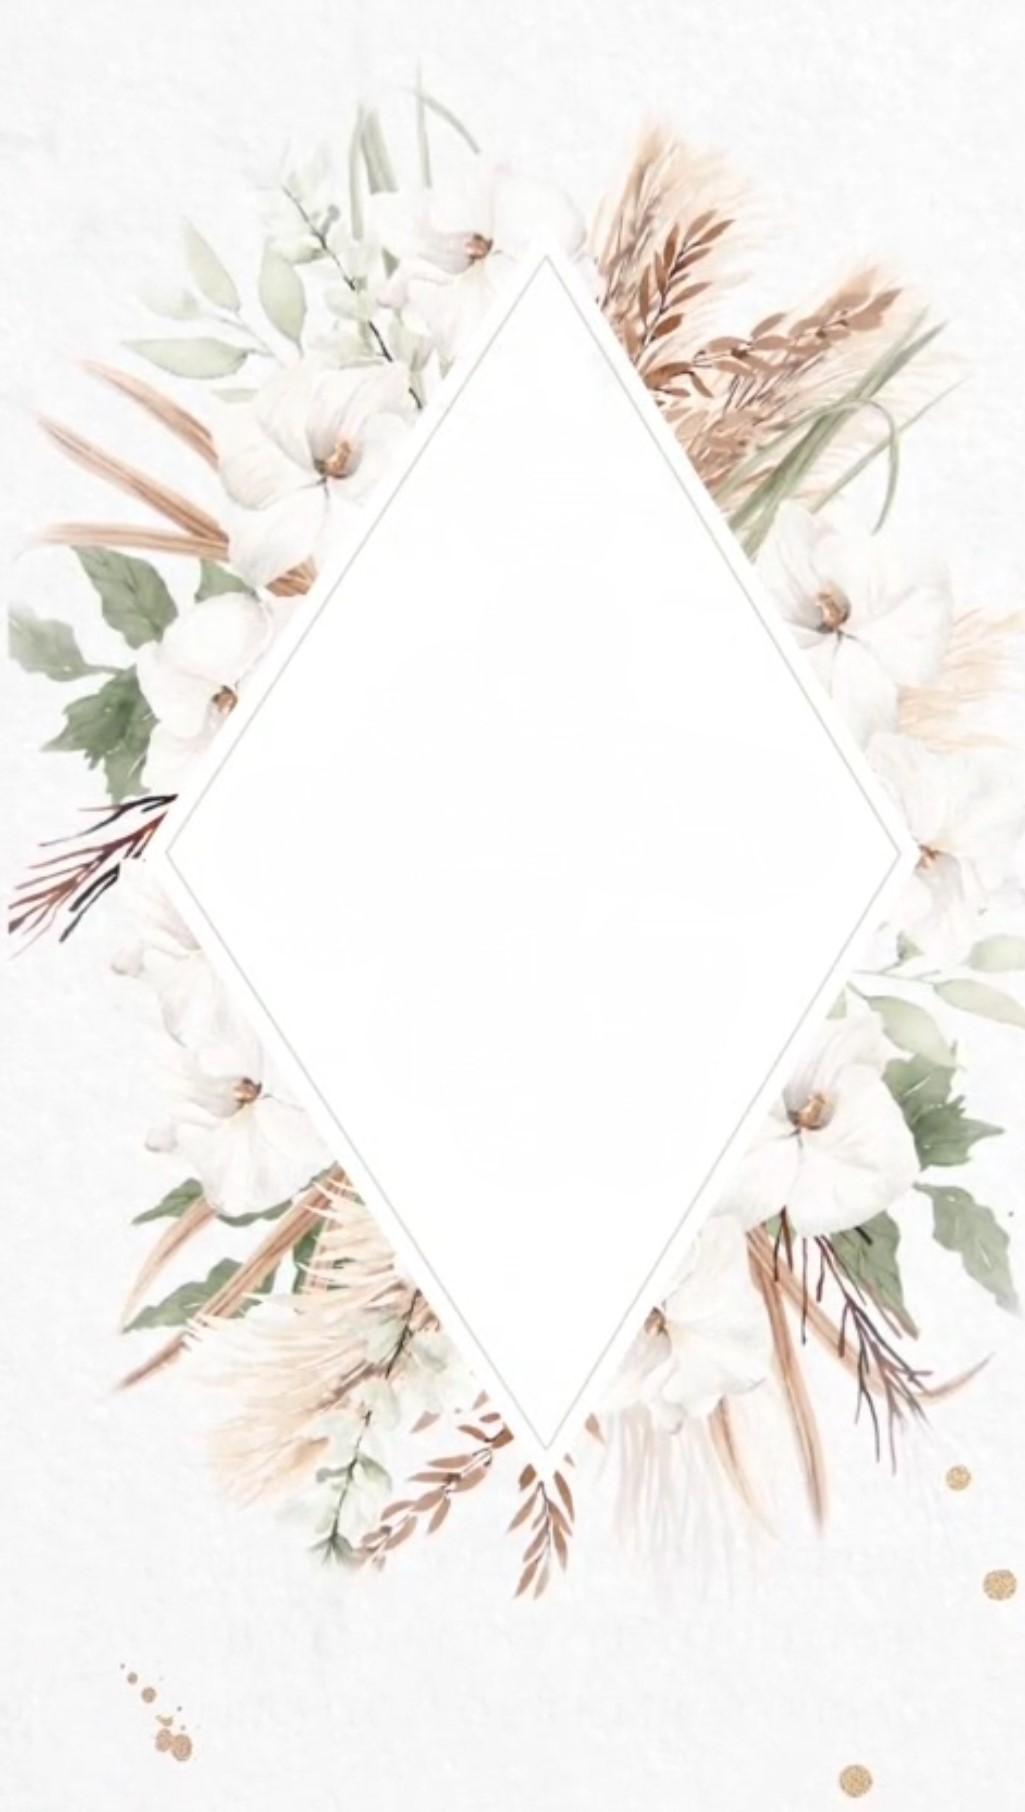
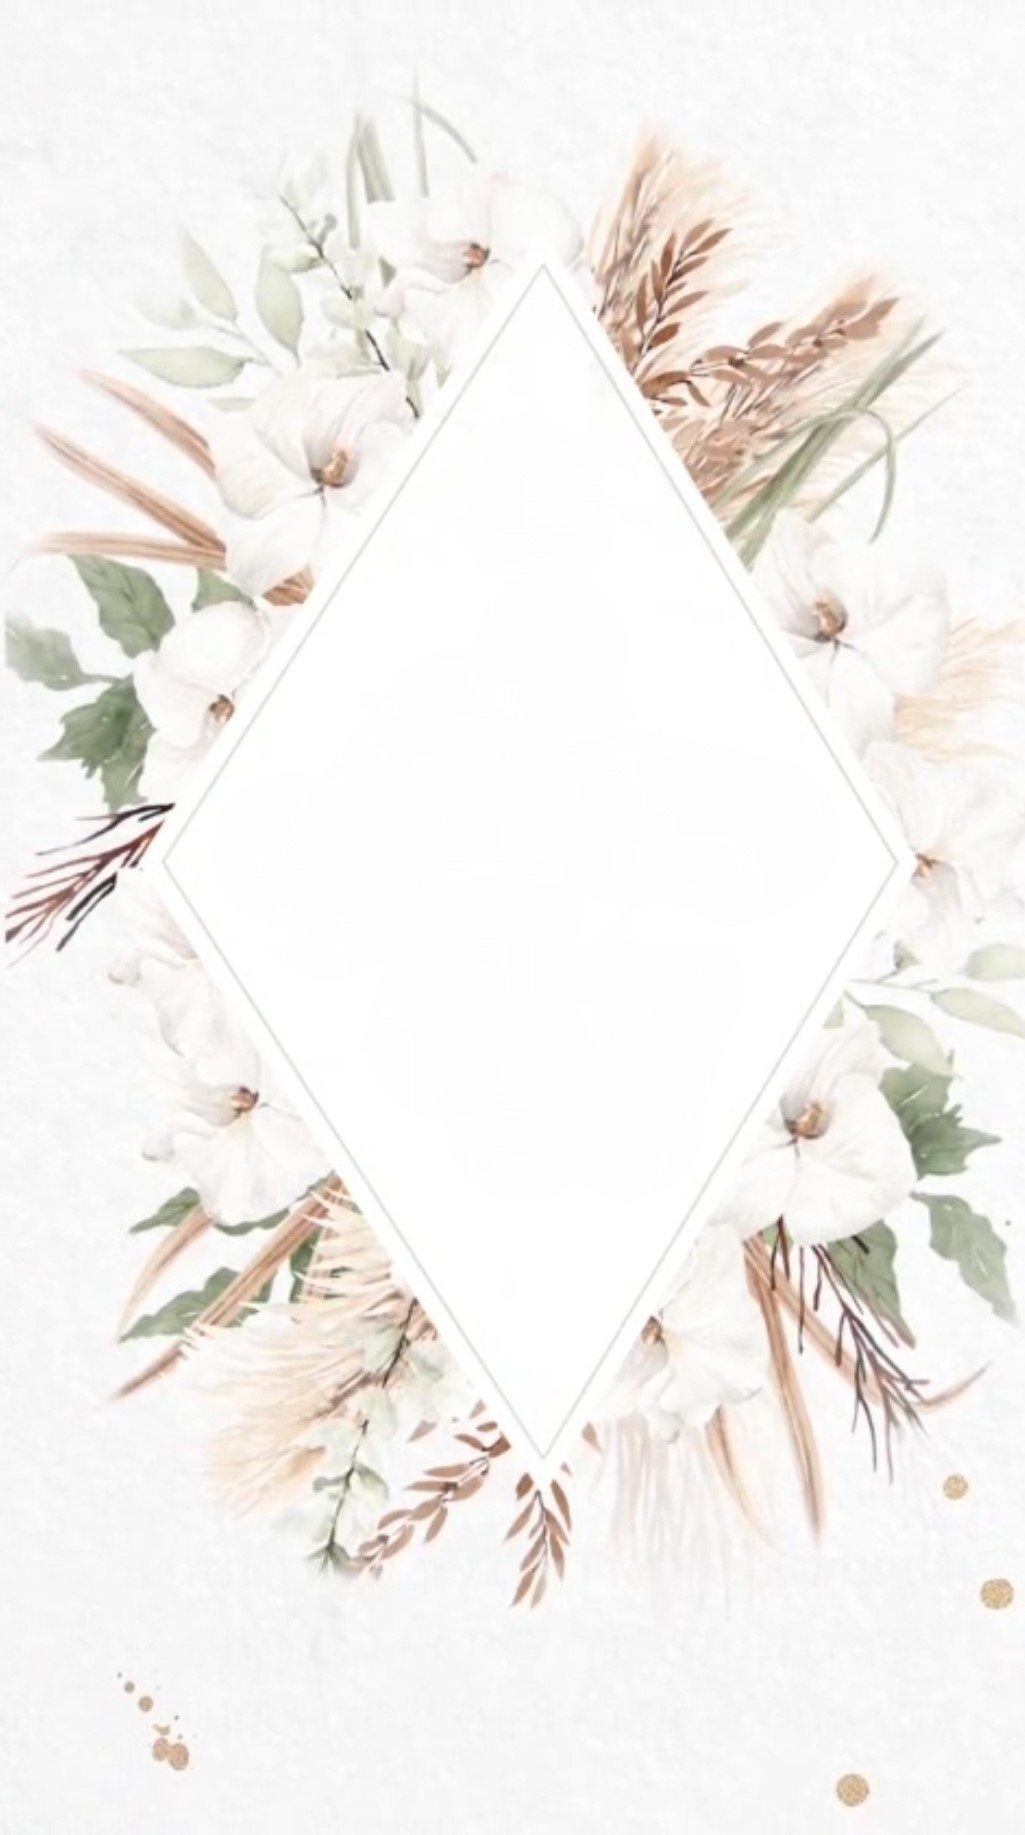
project working

diff --git a/style.css b/style.css
@@ -16,28 +16,143 @@
     padding: 0;
     box-sizing: border-box;
 }
-.swiper-container {
+body {
+    background-color: #ffffff !important; /* اجباری کردن پسزمینه سفید */
+    color: #000000; /* اطمینان از خوانایی متن با رنگ مشکی */
+    font-family: 'BTraffiBold_0', sans-serif;
+    overflow-x: hidden;
+    text-align: center;
+    max-width: 1000px;
+    position: relative;
+    height: 100%;
+    margin: auto;
+}
+.swiper {
     width: 100%;
-    height: 100vh; /* تمام ارتفاع صفحه */
+    height: 100%;
+  }
+
+  .swiper-slide {
+    text-align: center;
+    font-size: 18px;
+    background: #fff;
+    display: flex;
+    justify-content: center;
+    align-items: center;
+  }
+  .swiper-slide:nth-child(2){
+    background-image: url("image/IMG_20241021_142951 (1).jpg");
+    background-size: contain;
+    background-position: center;
+    background-repeat: no-repeat;
+    width: 100%;
+    height: 100vh;
+    background-color: #F8F8F8 !important;
+  }
+
+
+.text-overlay {
+    position: absolute;
+    top: 47%;
+    left: 51%;
+    transform: translate(-50%, -50%);
+    text-align: center;
+    font-size: 1.4rem;
+    background-color: rgba(255, 255, 255, 0.6); /* نیمه شفاف برای زمینه */
+    padding: 20px;
+    border-radius: 10px; /* گرد کردن گوشهها */
+    font-family: 'IranNastaliq', sans-serif; /* فونت مناسب */
 }
 
-.swiper-slide {
+.text-overlay span {
+    display: block;
+    /* font-size: 1.5rem; */
+    color: #000; /* رنگ متن */
+}
+
+.date {
+    font-weight: bold;
+    font-size: 1.5rem !important;
+    font-family: 'IranNastaliq', sans-serif;
+}
+
+.event-time {
+    font-size: 2.5rem;
+    margin-top: -2rem ;
+    display: flex;
+    flex-direction: row-reverse;
+    justify-content: center;
+    align-items: center;
+    gap: 10px; /* فاصله بین آیتمها */
+    font-size: 2.1rem; /* سایز فونت */
+    color: #333; /* رنگ متن */
+}
+
+.start-time,
+.end-time{
+    font-weight: 600;
+}
+.swiper-button-next,
+.swiper-button-prev,
+.swiper-pagination{
+    display: none !important;
+}
+/* تنظیمات دارع تایمر */
+/* .autoplay-progress{
+    display: none;
+} */
+  .autoplay-progress {
+    position: absolute;
+    right: 16px;
+    bottom: 16px;
+    z-index: 10;
+    width: 48px;
+    height: 48px;
     display: flex;
     align-items: center;
     justify-content: center;
-    width: 100%; /* تمام عرض هر اسلاید */
-    background-size: cover;
-    background-position: center;
-}
+    font-weight: bold;
+    color: var(--swiper-theme-color);
+  }
 
+  .autoplay-progress svg {
+    --progress: 0;
+    position: absolute;
+    left: 0;
+    top: 0px;
+    z-index: 10;
+    width: 100%;
+    height: 100%;
+    stroke-width: 4px;
+    stroke: var(--swiper-theme-color);
+    fill: none;
+    stroke-dashoffset: calc(125.6px * (1 - var(--progress)));
+    stroke-dasharray: 125.6;
+    transform: rotate(-90deg);
+  }
 
-.myslider2{
+  .myslider2 {
     background-image: url("image/IMG_20241021_142951 (1).jpg");
     background-size: contain;
     background-repeat: no-repeat;
     width: 100%;
     height: 100vh;
+    animation: subtleMove 10s ease-in-out infinite; /* انیمیشن با حرکت ریز و تکرارشونده */
 }
+
+/* کیفریم برای حرکت ریز */
+@keyframes subtleMove {
+    0% {
+        transform: scale(1) translate(0, 0); /* حالت اولیه تصویر */
+    }
+    50% {
+        transform: scale(1.1) translate(2px, -2px); /* کمی بزرگتر و جابهجایی ملایم */
+    }
+    100% {
+        transform: scale(1) translate(0, 0); /* بازگشت به حالت اولیه */
+    }
+}
+
 
 .container {
     text-align: center;
@@ -62,15 +177,7 @@ img {
     width: 50px; /* اندازه مناسب */
     height: 50px; /* اندازه مناسب */
 }
-body {
-    background-color: #ffffff !important; /* اجباری کردن پسزمینه سفید */
-    color: #000000; /* اطمینان از خوانایی متن با رنگ مشکی */
-    font-family: 'BTraffiBold_0', sans-serif;
-    overflow-x: hidden;
-    text-align: center;
-    max-width: 1000px;
-    margin: auto;
-}
+
 
 .container {
     position: relative;
@@ -128,7 +235,7 @@ body {
     font-family: "Shekasteh";
     margin: 0;
   }
-  
+/* داره درون */
   .names-container::before {
     content: "";
     position: absolute;
@@ -137,15 +244,15 @@ body {
     transform: translateX(-50%);
     width: 160px;
     height: 160px;
-    background: linear-gradient(145deg, #ffffff, #f0f0f0);
+    background: linear-gradient(145deg, #ffffff, #f9f8f8);
     border-radius: 50%;
-    box-shadow: 0px 4px 20px rgba(0, 0, 0, 0.1);
+    /* box-shadow: 0px 4px 20px rgba(0, 0, 0, 0.1); */
     z-index: -1;
   }
   
   .initials {
     position: absolute;
-    top: -38px;
+    top: -50px;
     left: 50%;
     padding: 0 1rem;
     transform: translateX(-50%);

diff --git a/index.html b/index.html
@@ -8,7 +8,9 @@
     <link rel="stylesheet" href="style.css">
 
     <!-- Swiper CSS (Local) -->
-    <link rel="stylesheet" href="/node_modules/swiper/swiper-bundle.min.css">
+    <link rel="stylesheet" href="https://cdn.jsdelivr.net/npm/swiper@11/swiper-bundle.min.css" />
+
+
 </head>
 
 <body>
@@ -19,8 +21,10 @@
         <span class="close-icon">×</span>
     </div>
 
+
+
     <!-- Swiper Container -->
-    <div class="swiper-container">
+    <div class="swiper mySwiper">
         <div class="swiper-wrapper">
             <!-- Slide 1: دعوتنامه -->
             <div class="swiper-slide">
@@ -48,43 +52,71 @@
 
             <!-- Slide 2: به نام خدا -->
             <div class="swiper-slide myslider2">
-                <div class="slide-content">
-                    Lorem, ipsum.
+                <div class="card">
+                    <div class="text-overlay">
+                        <span class="date">تاریخ: 1404/01/28 (فروردین)</span>
+                        <br>
+                        <div class="event-time">
+                            <span class="start-time">۱۹</span>
+                            <span class="separator">الی</span>
+                            <span class="end-time">۲۳</span>
+                            <span class="dinner">(به صرف شام)</span>
+                        </div>                    </div>
                 </div>
             </div>
+            
 
         </div>
 
         <!-- نقاط ناوبری -->
         <div class="swiper-pagination"></div>
     </div>
+    <div class="swiper-button-next"></div>
+    <div class="swiper-button-prev"></div>
+    <div class="swiper-pagination"></div>
+    <div class="autoplay-progress">
+      <svg viewBox="0 0 48 48">
+        <circle cx="24" cy="24" r="20"></circle>
+      </svg>
+      <span></span>
 
     <!-- Swiper JS (Local) -->
-    <script src="/node_modules/swiper/swiper-bundle.min.js"></script>
+    <script src="https://cdn.jsdelivr.net/npm/swiper@11/swiper-bundle.min.js"></script>
+
+    <!-- Initialize Swiper -->
     <script>
-        var swiper = new Swiper('.swiper-container', {
-      slidesPerView: 1, // نمایش تنها یک اسلاید در هر لحظه
-      spaceBetween: 0, // فاصله بین اسلایدها را صفر کنید
-      loop: true, // برای چرخش مداوم اسلایدها
-      navigation: {
-          nextEl: '.swiper-button-next',
-          prevEl: '.swiper-button-prev',
-      },
-      pagination: {
-          el: '.swiper-pagination',
-          clickable: true,
-      },
-      autoplay: {
-                  delay: 1000, // تاخیر 1 ثانیه برای تغییر خودکار اسلایدها
-              },
-  });
-  
-          // دکمه بستن پیام چرخش صفحه
-          let closebtn = document.querySelector(".close-icon");
-          closebtn.addEventListener("click", function () {
-              document.querySelector(".rotate-message").style.display = "none";
-          });
-      </script>
+        const progressCircle = document.querySelector(".autoplay-progress svg");
+        const progressContent = document.querySelector(".autoplay-progress span");
+        var swiper = new Swiper(".mySwiper", {
+            spaceBetween: 30,
+            centeredSlides: true,
+            autoplay: {
+                delay: 6000, // تغییر به 2 ثانیه
+                disableOnInteraction: false
+            },
+        pagination: {
+                el: ".swiper-pagination",
+                clickable: true
+            },
+            navigation: {
+                nextEl: ".swiper-button-next",
+                prevEl: ".swiper-button-prev"
+            },
+            on: {
+                autoplayTimeLeft(s, time, progress) {
+                    progressCircle.style.setProperty("--progress", 1 - progress);
+                    progressContent.textContent = `${Math.ceil(time / 1000)}s`;
+                }
+            }
+        });
+    </script>
+    <script>
+         let closebtn = document.querySelector(".close-icon");
+      closebtn.addEventListener("click", function () {
+          document.querySelector(".rotate-message").style.display = "none";
+      });
+    </script>
+
 </body>
 
 </html>
